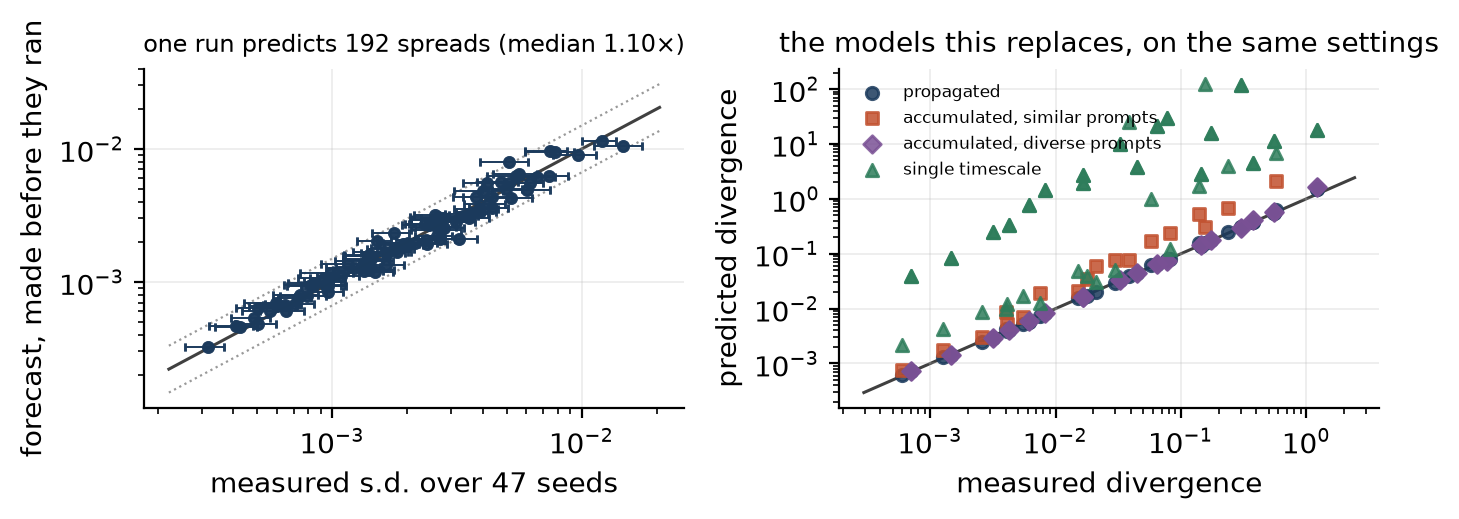
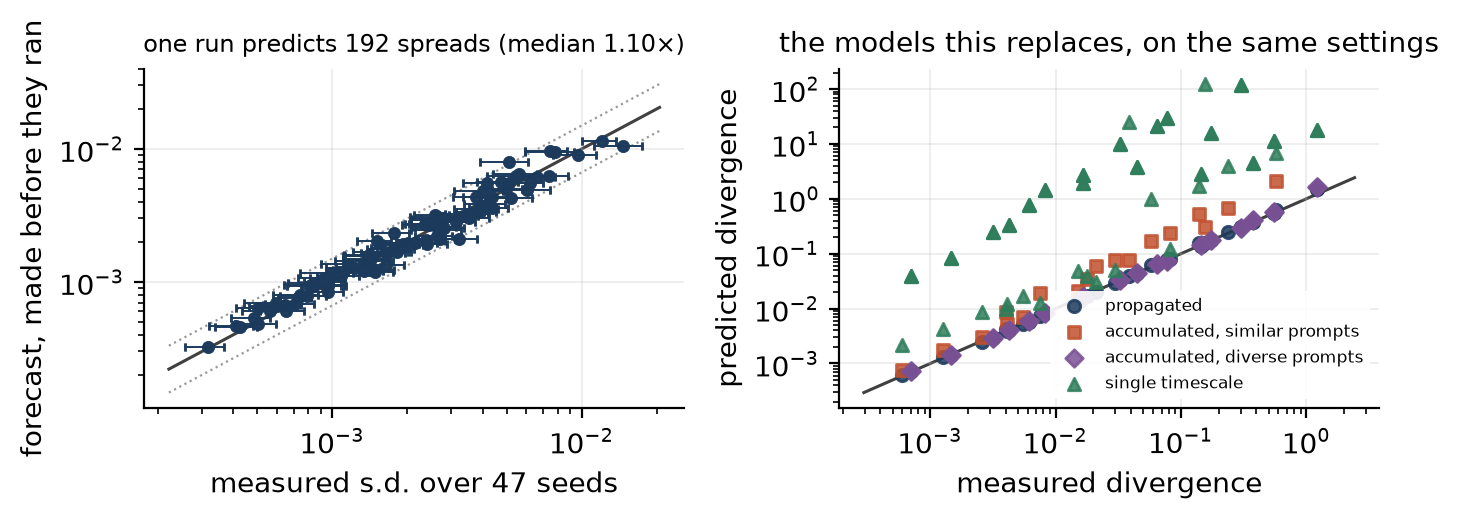
Move the teaser legend off the data

Changed region(s): [[0.586, 0.1541, 0.8019, 0.3391], [0.7094, 0.5549, 0.9253, 0.7707], [0.7094, 0.7399, 0.7402, 0.7707]]

diff --git a/analysis/figures.py b/analysis/figures.py
@@ -286,7 +286,7 @@ def figure_teaser() -> None:
     ax.plot(span, span, color="0.25", lw=1.1, zorder=0)
     ax.set_xscale("log")
     ax.set_yscale("log")
-    ax.legend(fontsize=6.2, frameon=False, loc="upper left")
+    ax.legend(fontsize=6.2, frameon=True, framealpha=0.9, edgecolor="none", loc="lower right")
     style(ax, "measured divergence", "predicted divergence",
           "the models this replaces, on the same settings")
     fig.tight_layout()
